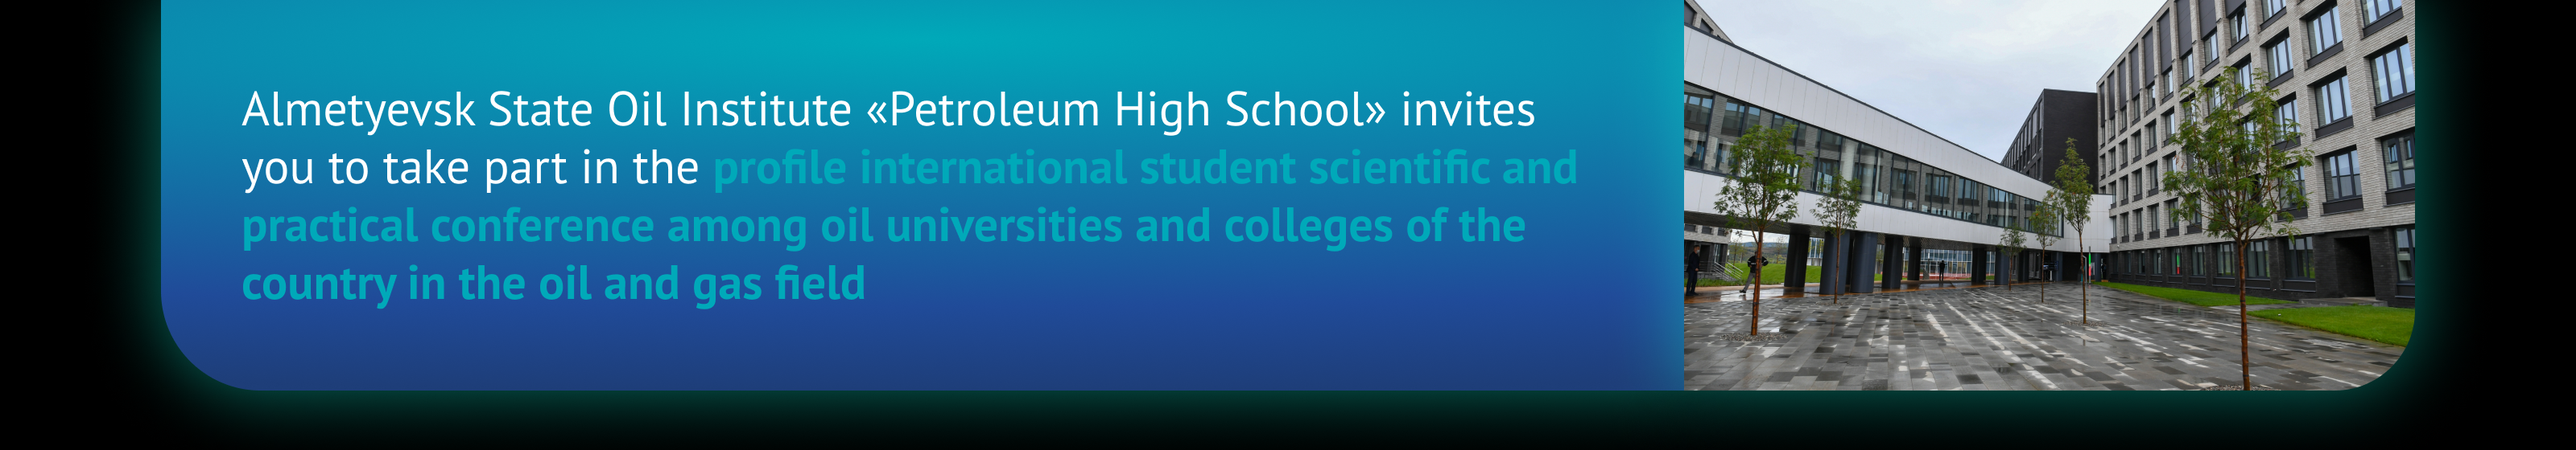
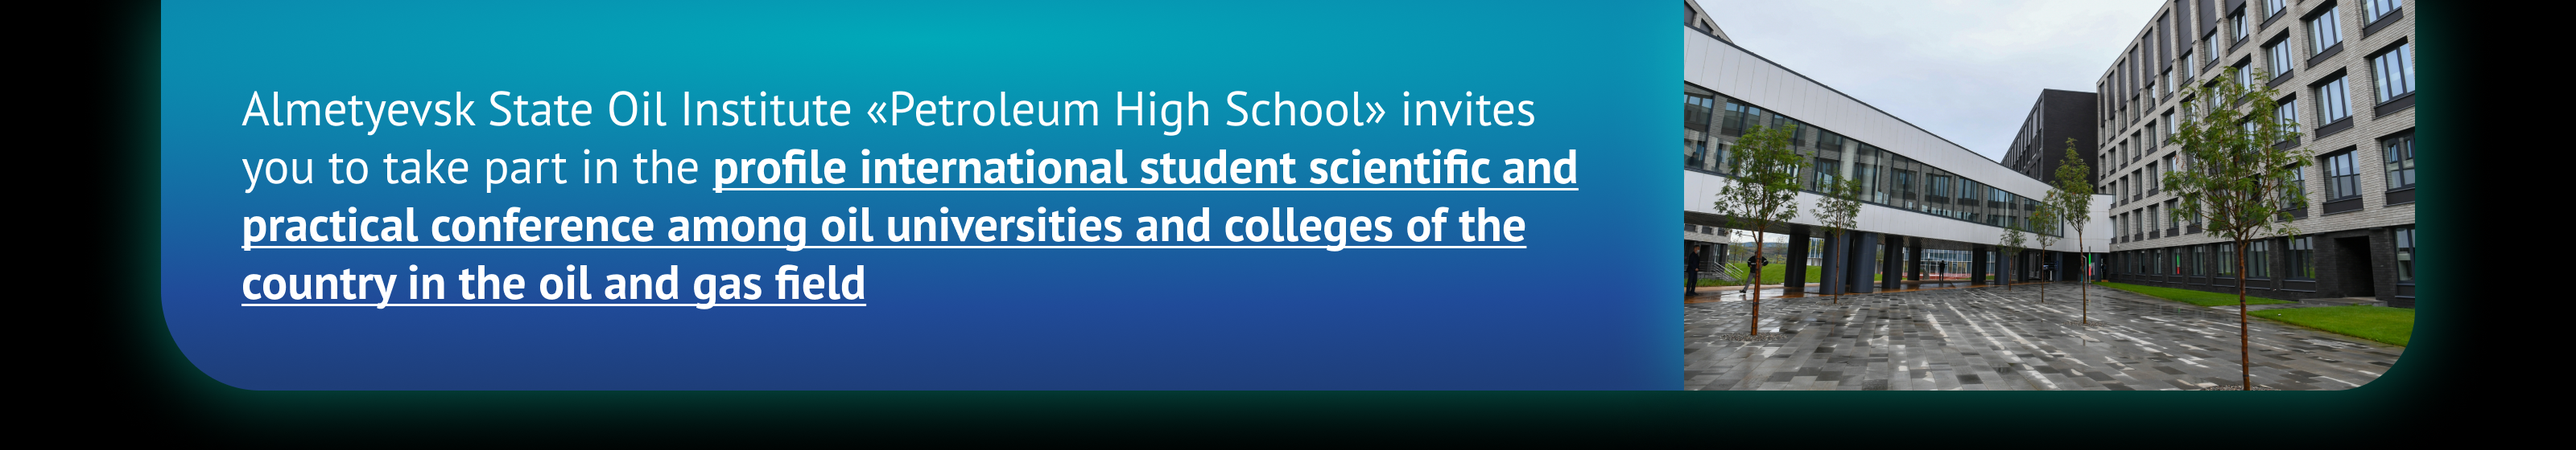
fix gavna

Changed region(s): [[0.0938, 0.4554, 0.5938, 0.6982], [0.25, 0.3339, 0.625, 0.425]]

diff --git a/index.html b/index.html
@@ -88,7 +88,7 @@
             </div>
         </div>
         <div class="div-button-tez">
-            <a class="button-tez f-mx1_5 under-line" id="button-tez" href="https://docs.google.com/forms/d/e/1FAIpQLSfatxuGtKkXNncB26GQBg0F7biL_2lqGsasfD20kfUe2iQk9w/viewform">Подать тезис</a>
+            <a class="button-tez f-mx1_5" id="button-tez" href="https://docs.google.com/forms/d/e/1FAIpQLSfatxuGtKkXNncB26GQBg0F7biL_2lqGsasfD20kfUe2iQk9w/viewform">Подать тезис</a>
         </div>
     </div>
 
@@ -97,11 +97,13 @@
         <div id="slide-3_ways" class="title f-2"></div>
         <div class="ways">
             <div class="way-item">
-                <div id="slide-3_name-1" class="name f-mx1_5"></div>
+                <div id="slide-3_name-3" class="name f-mx1_5"></div>
                 <div class="divider"></div>
                 <div class="text">
                     <ul>
-                        <li id="slide-3_way-1_1" class="f-mx0_8"></li>
+                        <li id="slide-3_way-3_1" class="f-mx0_8"></li>
+                        <li id="slide-3_way-3_2" class="f-mx0_8"></li>
+                        <li id="slide-3_way-3_3" class="f-mx0_8"></li>
                     </ul>
                 </div>
             </div>
@@ -117,13 +119,11 @@
                 </div>
             </div>
             <div class="way-item">
-                <div id="slide-3_name-3" class="name f-mx1_5"></div>
+                <div id="slide-3_name-1" class="name f-mx1_5"></div>
                 <div class="divider"></div>
                 <div class="text">
                     <ul>
-                        <li id="slide-3_way-3_1" class="f-mx0_8"></li>
-                        <li id="slide-3_way-3_2" class="f-mx0_8"></li>
-                        <li id="slide-3_way-3_3" class="f-mx0_8"></li>
+                        <li id="slide-3_way-1_1" class="f-mx0_8"></li>
                     </ul>
                 </div>
             </div>
@@ -245,6 +245,7 @@
 
     <div id="group6" class="parallax__group-6">
         <img id="slide-6_content" src="assets/slide6/ru-slide-6.png" alt="" class="img_6">
+        <a class="link" href="https://msnpk.ru/" target="_blank"></a>
     </div>
 
     <div id="footer" class="footer">

diff --git a/styles/slide3.css b/styles/slide3.css
@@ -47,11 +47,13 @@
         flex-wrap: wrap;
         z-index: 1;
 
+
         .way-item {
             display: flex;
             flex-direction: column;
             flex: 1;
-            height: max(300px, 30vh);
+            min-height: max(350px, 33vh);
+            height: 100%;
             background: radial-gradient(100.15% 100% at 0% 100%, rgba(0, 169, 185, 0.9) 0%, rgba(32, 75, 153, 0.9) 76.08%, rgba(30, 62, 121, 0.9) 100%) /* warning: gradient uses a rotation that is not supported by CSS and may not behave as expected */;
             border-radius: 20px;
 
@@ -60,7 +62,7 @@
                 align-items: center;
                 color: white;
                 font-weight: bold;
-                height: 20%;
+                min-height: 80px;
                 padding: 6%;
             }
 

diff --git a/styles/slide6.css b/styles/slide6.css
@@ -4,6 +4,7 @@
     flex-direction: column;
     z-index: 1;
     padding: 0 0;
+    position: relative
 }
 
 .parallax__group-6 {
@@ -12,6 +13,15 @@
         width: 100%;
         display: block;
         height: auto;
+    }
+
+    .link {
+        position: absolute;
+        left: 8%;
+        right: 40%;
+        z-index: 109032439;
+        top: 37%;
+        bottom: 26%;
     }
 }
 

diff --git a/styles/footer.css b/styles/footer.css
@@ -98,7 +98,10 @@
                     height: 100%;
 
                     .univer {
+                        display: flex;
+                        align-items: center;
                         margin: 0 0 10px 10px;
+                        min-height: 52px;
                     }
                 }
             }

diff --git a/styles/slide1.css b/styles/slide1.css
@@ -197,7 +197,7 @@
         display: flex;
         align-items: center;
         background: white;
-        text-decoration: underline;
+        text-decoration: none;
         color: black;
         align-self: flex-end;
         border: 1px solid var(--grey-color-1);

diff --git a/styles/header.css b/styles/header.css
@@ -35,7 +35,7 @@ header {
     padding: 10px;
 
     color: black;
-    text-decoration: underline;
+    text-decoration: none;
     cursor: pointer;
     user-select: none;
 }

diff --git a/styles/time-left.css b/styles/time-left.css
@@ -15,6 +15,7 @@
 }
 
 .button-tez {
+    text-decoration: none;
     display: flex;
     align-items: center;
     justify-content: center;

diff --git a/styles/slide4.css b/styles/slide4.css
@@ -55,6 +55,7 @@
 }
 
 .button-u {
+    text-decoration: none;
     display: flex;
     align-items: center;
     justify-content: center;
